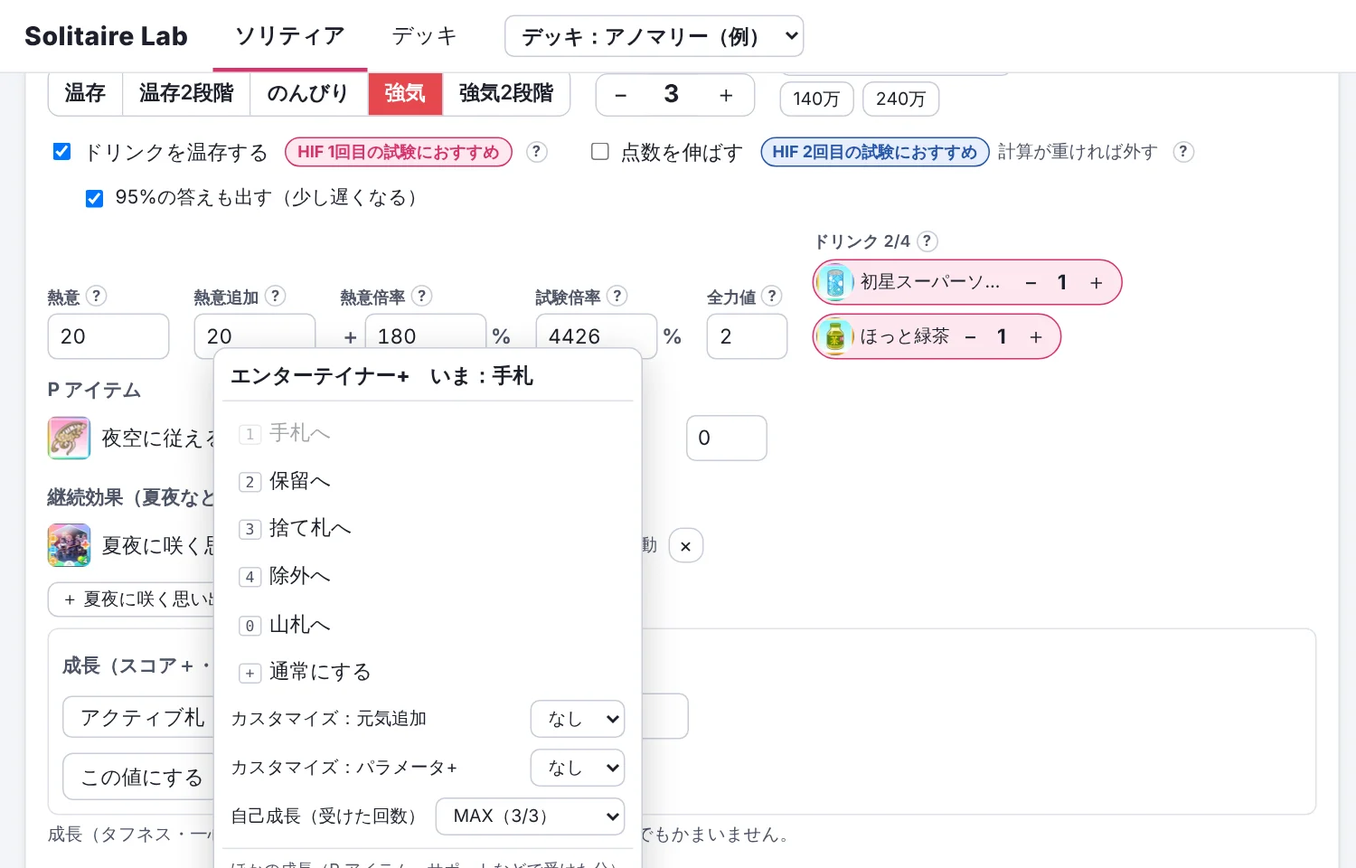
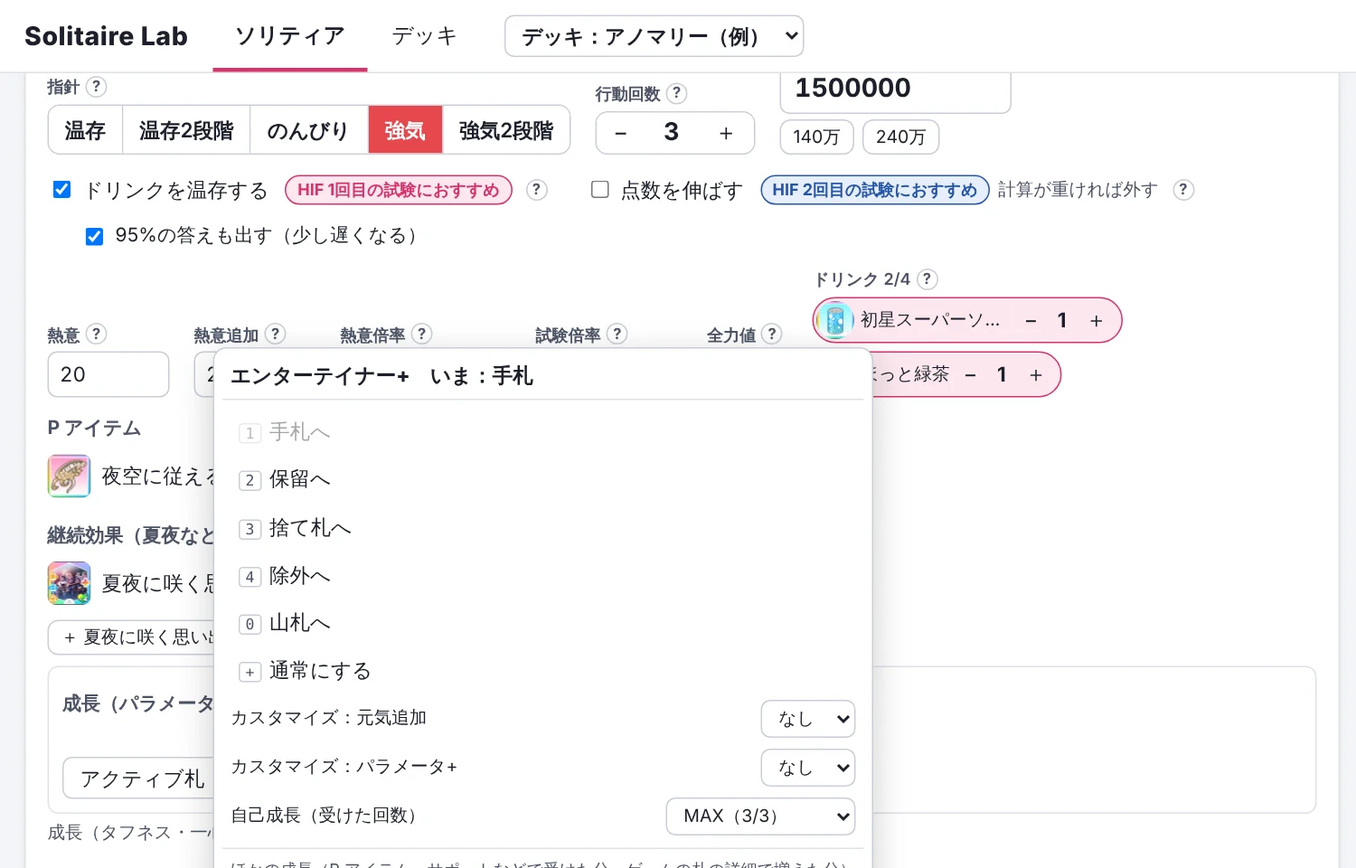
Solitaire Lab 1.17.3：ターン終わりの効果を別の行に・わたしの人生を込めて・成長の欄はすぐ反映

diff --git a/js/turn.js b/js/turn.js
@@ -1,6 +1,6 @@
 // ソリティアの画面（毎ターン使う画面）：左に局面（上部の数値の欄、手札、置き場）、右に答え（計算・次の手・プレイの案内）。
 // 札は押して置き場を選ぶ（キー 1:手札 2:保留 3:捨て札 4:除外 0:山札）か、置き場へドラッグする。山札＝デッキ全体−ほかの置き場（自動）。
-import {D, search, itemInputs, staminaTriggered, hifSharedLimit, hifSharedKind, hifOldStyle, hifOk} from './data.js';
+import {D, search, itemInputs, staminaTriggered, hifSharedLimit, hifSharedKind, hifOldStyle, hifOk, lifeOn, lifeAble} from './data.js';
 import {firedOf} from './setup.js';
 import {S, save, uid, deck, newPhase, STANCES} from './store.js';
 import {h, pic, cardTile, popover, num, sel, toast, qtip} from './ui.js';
@@ -34,6 +34,7 @@ export function renderTurn(root, rerender) {
     else if (g) m.push(h('button.mark.full', {title: '自己成長 MAX（押して変える）', onclick: e => { e.stopPropagation(); setAssume(P, en.uid, 'grown', 0); touch(); }}, '成長MAX'));
     const x = extraGrowth(P, en);
     if (x.score || x.times) m.push(h('span.mark.grow', [x.score && `+${x.score}`, x.times && `回数+${x.times}`].filter(Boolean).join(' ')));
+    if (lifeOn(en)) m.push(h('span.mark.grow', {title: 'わたしの人生を込めて（回数+2）を入れています。札を押して外せます'}, '人生 回数+2'));
     if (P.extra.includes(en)) m.push(h('span.mark.ext', '追加'));
     return m;
   };
@@ -43,6 +44,7 @@ export function renderTurn(root, rerender) {
     // HIF のつけ外し（デッキの画面と同じ。デッキの札そのものを変える。1.14.3、利用者の要望）
     const changed = () => { dk.updated = Date.now(); if (S.result) S.result.deckChanged = true; };
     if (c && (hifOk(S.calcSettings, c.baseId) || en.hif)) items.push({label: en.hif ? 'HIF を外す' : 'HIF を付ける', key: 'h', onclick: () => { en.hif = !en.hif; changed(); touch(); }});
+    if (lifeAble(en)) items.push({label: lifeOn(en) ? 'わたしの人生を込めて（回数+2）を外す' : 'わたしの人生を込めて（回数+2）を入れる', onclick: () => { en.life = !lifeOn(en); if (en.life) delete en.life; changed(); touch(); }});
     // 通常／＋、カスタマイズ（デッキの画面と同じ。デッキの札そのものを変える。1.14.3、利用者の要望）
     if (c && (c.plusId || c.upgraded)) items.push({label: c.upgraded ? '通常にする' : '＋にする', key: '+', onclick: () => { en.id = c.upgraded ? c.baseId : c.plusId; en.c11n = {}; changed(); touch(); }});
     for (const cid of c?.custs || []) {
@@ -60,7 +62,7 @@ export function renderTurn(root, rerender) {
       const x = extraGrowth(P, en);
       const inp = (label, k, v) => h('div.pop-c', {}, h('span', label), h('input', {type: 'number', min: 0, value: v, style: {width: '5em'},
         onchange: ev => { setAssume(P, en.uid, k, Math.max(0, Number(ev.target.value) || 0)); save(); }}));
-      items.push(h('div.pop-sub', 'ほかの成長（P アイテム・サポートなどで受けた分）'), inp('スコアの成長 +', 'score', x.score), inp('スコアの回数 +', 'times', x.times));
+      items.push(h('div.pop-sub', 'ほかの成長（P アイテム・サポートなどで受けた分。ゲームの札の詳細で増えた分）'), inp('パラメータ上昇 +', 'score', x.score), inp('攻撃回数 +', 'times', x.times));
     }
     if (P.extra.includes(en)) items.push({label: 'この札を消す（追加した札）', key: 'Delete', cls: 'danger', onclick: () => { P.extra = P.extra.filter(x => x !== en); delete P.zones[en.uid]; P.held = P.held.filter(x => x !== en.uid); touch(); }});
     popover(e.currentTarget, c?.name + '　いま：' + ZNAME[z].replace('（自動）', ''), items, {onclose: rerender});

diff --git a/js/steps.js b/js/steps.js
@@ -33,13 +33,18 @@ const sign = x => (x > 0 ? '+' : x < 0 ? '−' : '±') + fmt(Math.abs(x));
 const pct = x => { const v = x * 100; if (v > 0 && v < 0.01) return Number(v.toPrecision(2)) + '%'; return (Number.isInteger(v) ? String(v) : v.toFixed(2).replace(/0+$/, '').replace(/\.$/, '')) + '%'; };
 const delta = (a, b, f = v => fmt(v)) => b === a ? f(b) : `${sign(b - a)} → ${f(b)}`;
 const factorText = v => '+' + (v - 100) + '%';
+// ターン終わりの効果の点（計算の部品 5e5a733 の hits の via）：最後の手の行から分けて「ターン終わり：…」の行にする（1.17.1、利用者の要望）
+export const eotOf = e => { const hs = (e?.hits || []).filter(x => x.via === 'endOfTurn'); if (!hs.length) return null;
+  const total = hs.reduce((t, x) => t + x.v * (x.times || 1), 0);
+  const names = [...new Set([...hs].sort((x, y) => (y.phase === 'card') - (x.phase === 'card')).map(x => (x.src || '効果') + (x.phase === 'card' ? '（再演）' : '')))];   // 再演した札を先に
+  return {total, label: 'ターン終わり：' + names.join('・')}; };
 const cells = r => {
   if (r.type === 'end') return {step: '', act: r.n.cut ? 'ほかの引き（この先は省略）' : r.n.reached ? `終わり：目標に届いた` : '終わり：目標に届かない', drawn: '', p: '', path: pct(r.pathP),
     score: fmt(r.n.st?.score ?? r.n.score), heat: '', extra: '', factor: '', bonus: '', stance: '', uses: '', drinks: '', future: r.n.cut ? pct(r.n.p) : r.n.reached ? '100%' : '0%'};
   const a = r.n.st, b = r.c.st;
   return {step: String(r.step), act: r.n.act + (r.n.lost ? '（届かない：点を伸ばす手）' : ''), drawn: r.e.drawn.length ? r.e.drawn.map(x => x.name).join('・') : (r.branching ? '（ドロー札なし）' : ''),
     p: r.branching ? `${r.e.pText}（${pct(r.e.p)}）` : '', path: pct(r.pathP),
-    score: delta(a.score, b.score), heat: delta(a.heat, b.heat), extra: delta(a.extra, b.extra),
+    score: delta(a.score, b.score - (eotOf(r.e)?.total || 0)), heat: delta(a.heat, b.heat), extra: delta(a.extra, b.extra),
     factor: a.factor === b.factor ? factorText(b.factor) : `${sign(b.factor - a.factor)}% → ${factorText(b.factor)}`,
     bonus: a.bonus === b.bonus ? b.bonus + '%' : `${sign(b.bonus - a.bonus)}% → ${b.bonus}%`,
     stance: a.stance === b.stance ? (ST[b.stance] || b.stance) : `${ST[a.stance] || a.stance} → ${ST[b.stance] || b.stance}`,
@@ -116,6 +121,12 @@ export function renderSteps(root, rerender) {
   const seg = h('div.seg', {}, [['path', '手順ごと'], ['all', '全部の表']].map(([v, t]) =>
     h('button', {class: mode === v ? 'on' : '', onclick: () => { S.ui.stepMode = v; save(); rerender(); }}, t)));
   const tr = (r, opts = {}) => {
+    const eot = r.type === 'move' ? eotOf(r.e) : null;
+    if (eot) { const b = r.c.st; return [tr1(r, opts), h('tr.eot', {}, COLS.map(([k]) => k === 'act' ? h('td.act', {style: {paddingLeft: (8 + r.depth * 16) + 'px'}}, eot.label)
+      : h('td', {class: NUM_COLS.includes(k) ? 'n' : ''}, k === 'score' ? delta(b.score - eot.total, b.score) : '')))]; }
+    return tr1(r, opts);
+  };
+  const tr1 = (r, opts = {}) => {
     const c = cells(r);
     const fold = opts.fold && r.type === 'move' && r.branching;
     return h('tr', {class: [r.type, fold && 'fold', fold && collapsed.has(r.key) && 'closed', opts.fold && r.type === 'move' && !r.first && 'sib', r.type === 'end' && (r.n.cut ? 'cut' : r.n.reached ? 'ok' : 'ng')].filter(Boolean).join(' '),

diff --git a/js/phase.js b/js/phase.js
@@ -74,18 +74,18 @@ export function validate(dk, P) {
   return out;
 }
 
-// 成長をまとめて入れる（例：アクティブ札すべてにスコアの成長 +37）
-let bulk = {score: 0, times: 0, who: 'active'};
+// 成長をまとめて入れる（例：アクティブ札すべてにパラメータ上昇 +37）。入れたらすぐ、選んだ種類の札すべてに反映する（1.17.3、利用者の指摘：ボタンを押さないと入らないのは分かりにくい）
+// 値はゲームの札の詳細の「パラメータ上昇」「攻撃回数」の増えた分（札の元の点に足す）。札ごとに違う値なら空欄で出す
+let bulk = {who: 'active'};
 export function growthBulk(P, all, touch) {
   const targets = () => all.filter(en => { const c = D.cardById.get(en.id); return c && c.type !== 'trouble' && (bulk.who === 'all' || c.type === bulk.who); });
-  const apply = mode => { for (const en of targets()) { const a = P.assume[en.uid] || {};
-    // 入れた（0でない）項目だけを変える。札ごとに入れた別の項目は残す
-    const b = {...a}; for (const k of ['score', 'times']) if (bulk[k]) b[k] = mode === 'set' ? bulk[k] : (a[k] || 0) + bulk[k];
-    P.assume[en.uid] = b; } touch(); };
-  return h('div.bulk', {}, h('h4', '成長（スコア＋・回数＋をまとめて入れる）'),
-    h('div.row', {}, sel('', bulk.who, [['active', 'アクティブ札'], ['mental', 'メンタル札'], ['all', 'すべての札']], v => { bulk.who = v; }),
-      num('スコア +', bulk.score, v => { bulk.score = v || 0; }, {min: 0, width: 5}),
-      num('回数 +', bulk.times, v => { bulk.times = v || 0; }, {min: 0, width: 4})),
-    h('div.row', {}, h('button', {onclick: () => apply('set')}, 'この値にする'), h('button', {onclick: () => apply('add')}, '今の値に足す'),
-      h('button', {onclick: () => { for (const en of targets()) { const a = P.assume[en.uid]; if (a) { delete a.score; delete a.times; } } touch(); }}, '0に戻す')));
+  const common = k => { const vs = [...new Set(targets().map(en => P.assume[en.uid]?.[k] || 0))]; return vs.length === 1 ? vs[0] : null; };
+  const setAll = (k, v) => { for (const en of targets()) { const b = {...(P.assume[en.uid] || {})}; if (v) b[k] = v; else delete b[k]; P.assume[en.uid] = b; } touch(); };
+  const mixed = k => common(k) === null;
+  return h('div.bulk', {}, h('h4', '成長（パラメータ上昇・攻撃回数をまとめて入れる）'),
+    h('div.row', {}, sel('', bulk.who, [['active', 'アクティブ札'], ['mental', 'メンタル札'], ['all', 'すべての札']], v => { bulk.who = v; touch(); }),
+      num('パラメータ上昇 +', common('score') ?? '', v => setAll('score', Math.max(0, v || 0)), {min: 0, width: 5}),
+      num('攻撃回数 +', common('times') ?? '', v => setAll('times', Math.max(0, v || 0)), {min: 0, width: 4}),
+      h('button', {onclick: () => { for (const en of targets()) { const a = P.assume[en.uid]; if (a) { delete a.score; delete a.times; } } touch(); }}, '0に戻す')),
+    (mixed('score') || mixed('times')) && h('p.hint', '札ごとに違う値が入っています（空欄）。ここに入れると、選んだ種類の札すべてがその値になります。'));
 }

diff --git a/manual/index.html b/manual/index.html
@@ -51,7 +51,7 @@
 <section class="slide cover">
   <h1>Solitaire Lab 詳細マニュアル</h1>
   <div class="sub">学園アイドルマスターの「ソリティア」で、<br>どの順番で札を使えば目標点に届きやすいかを教えてくれるツールです。</div>
-  <div class="ver">版 1.17.0 ・ ← → キー、または画面の左右を押してページをめくります</div>
+  <div class="ver">版 1.17.3 ・ ← → キー、または画面の左右を押してページをめくります</div>
 </section>
 
 <section class="slide">
@@ -136,6 +136,7 @@
       <li><b>通常／＋</b>：強化前と強化後を切り替えます。</li>
       <li><b>カスタマイズ</b>：段階を選びます。</li>
       <li><b>HIF</b>：HIF が付けられる札だけに表示されます。同じ名前の札に HIF を付けても、効果が出るのはレッスン中に最初に使った1枚だけです（再動の札は合わせて2回まで）。同じ名前の HIF の札が2枚以上あるときは、ソリティアの前に使ったかを P アイテムの下の欄で入れます。</li>
+      <li><b>わたしの人生を込めて</b>：手を伸ばした先にだけに表示されます。最初から「回数+2」が入っています（札に「人生 回数+2」の印）。まだ使っていないときは外してください。</li>
       <li><b>1枚ふやす／デッキから外す</b></li>
     </ul>
     <div class="tip">ヒント：札の上の色の帯は、その札で変わる指針です。<span class="chip s1">強気</span> <span class="chip s2">温存</span> <span class="chip s3">のんびり</span></div>
@@ -164,7 +165,7 @@
       <li>山札の枚数は自動で計算されます。置き場の場所は固定です（上に手札と保留、その下に山札、捨て札と除外）。空の置き場にも、札をドラッグして入れられます。</li>
     </ol>
     <div class="tip">ヒント：キーボードでも動かせます。<kbd>1</kbd> 手札 <kbd>2</kbd> 保留 <kbd>3</kbd> 捨て札 <kbd>4</kbd> 除外 <kbd>0</kbd> 山札</div>
-    <div class="tip">成長（タフネス・一心不乱などで上がった分）は、入力の欄の「<b>成長</b>」で入れます。点が大きい局面では誤差なので、空白でもかまいません。デッキにない札（眠気など）は「＋ デッキにない札を足す」から追加します。</div>
+    <div class="tip">成長は「<b>成長</b>」の欄に、札の詳細の「パラメータ上昇」「攻撃回数」の増えた分を入れます。点が大きい局面では誤差なので、空白でもかまいません。デッキにない札（眠気など）は「＋ デッキにない札を足す」から追加します。</div>
   </div><div class="pic"><img src="img/05-card-menu.webp" alt="札のメニュー"></div></div>
 </section>
 

diff --git a/js/answer.js b/js/answer.js
@@ -1,5 +1,6 @@
 // ソリティアの画面の右側：答えの欄。計算の前は「確かめ」と「計算する」、計算中は進み具合、計算の後は次の手とプレイの案内。
 // プレイの案内は同じ欄の中で進む（「使った」→「何を引いた？」→ 次の手）。比較表・自然さ・答えの確かさは「詳しく」にたたむ。
+import {eotOf} from './steps.js';
 import {D} from './data.js';
 import {S, save, deck, STANCES} from './store.js';
 import {h, pic, fmt, toast, qtip} from './ui.js';
@@ -78,9 +79,16 @@ function gainOf(tree, node) {
   if (same(b => b.heat) && kids[0].heat !== a.heat) parts.push(`熱意 ${fmt(a.heat)} → ${fmt(kids[0].heat)}`);
   if (same(b => b.extra) && kids[0].extra !== a.extra) parts.push(`熱意追加 ${fmt(a.extra)} → ${fmt(kids[0].extra)}`);
   // 1発の値×回数（計算の部品の explain）。どの引きでも同じなら「23,370 × 5回 ＝ +116,850」
-  const hs = node.edges.map(e => e.hits ? e.hits.map(x => x.times > 1 ? `${fmt(x.v)} × ${x.times}回` : fmt(x.v)).join(' ＋ ') : null);
+  // 内訳に出どころ（計算の部品 5e5a733 の src）。使った札そのものの攻撃は名前を省く。ターン終わりの効果（via endOfTurn）は別に出す（1.17.1）
+  const me = node.act.replace(/（.*$/, '');
+  const hitText = x => (x.times > 1 ? `${fmt(x.v)} × ${x.times}回` : fmt(x.v)) + (x.src && x.src !== me ? `（${x.src}${x.phase === 'card' && x.via ? '・再演' : ''}）` : '');
+  const eots = node.edges.map(e => eotOf(e));
+  const eot = eots[0] && eots.every(x => x && x.total === eots[0].total && x.label === eots[0].label) ? eots[0] : null;
+  if (eot) parts.push(`${eot.label} +${fmt(eot.total)}`);
+  const hs = node.edges.map(e => e.hits ? e.hits.filter(x => !(eot && x.via === 'endOfTurn')).map(hitText).join(' ＋ ') : null);
+  const own = lo - (eot?.total || 0);
   const plain = node.edges[0].hits?.length === 1 && node.edges[0].hits[0].times === 1;   // 1発だけなら「+48」のまま
-  if (!plain && hs[0] && hs.every(x => x === hs[0]) && lo === hi && lo > 0) return {text: `使うとスコア ${hs[0]} ＝ +${fmt(lo)}`, sub: `（このターンの合計 ${fmt(tlo)}${parts.length ? '・' + parts.join('・') : ''}）`, short: `${hs[0]} ＝ +${fmt(lo)}点`};
+  if (!plain && hs[0] && hs.every(x => x === hs[0]) && lo === hi && lo > 0) return {text: `使うとスコア ${hs[0]} ＝ +${fmt(own)}`, sub: `（このターンの合計 ${fmt(tlo)}${parts.length ? '・' + parts.join('・') : ''}）`, short: `${hs[0]} ＝ +${fmt(lo)}点`};
   return {text: `使うとスコア ${sc}`, sub: `（このターンの合計 ${tlo === thi ? fmt(tlo) : fmt(tlo) + '〜' + fmt(thi)}${parts.length ? '・' + parts.join('・') : ''}）`, short: `${sc}点`};
 }
 

diff --git a/js/deck.js b/js/deck.js
@@ -1,5 +1,5 @@
 // 1. デッキ登録：札・ドリンク・P アイテム・P アイドルを名前（正式名・略称）で探して足す。保存して何度も使う
-import {D, search, hifOk, unsupported, PLAN_NAME} from './data.js';
+import {D, search, hifOk, unsupported, PLAN_NAME, lifeOn, lifeAble} from './data.js';
 import {S, save, uid, deck, newDeck} from './store.js';
 import {h, pic, cardTile, popover, toast} from './ui.js';
 import {variantKey} from './nextturn.js';
@@ -34,6 +34,7 @@ export function renderDeck(root, rerender) {
     const c = D.cardById.get(entry.id);
     const items = [];
     if (c.plusId || c.upgraded) items.push({label: c.upgraded ? '通常にする' : '＋にする', key: '+', onclick: () => { entry.id = c.upgraded ? c.baseId : c.plusId; entry.c11n = {}; if (S.result && S.result.deckId === dk.id) S.result.deckChanged = true; touch(); rerender(); }});
+    if (lifeAble(entry)) items.push({label: lifeOn(entry) ? 'わたしの人生を込めて（回数+2）を外す' : 'わたしの人生を込めて（回数+2）を入れる', onclick: () => { entry.life = !lifeOn(entry); if (entry.life) delete entry.life; if (S.result && S.result.deckId === dk.id) S.result.deckChanged = true; touch(); rerender(); }});
     if (hifOk(S.calcSettings, c.baseId) || entry.hif) items.push({label: entry.hif ? 'HIF を外す' : 'HIF を付ける', key: 'h', onclick: () => { entry.hif = !entry.hif; if (S.result && S.result.deckId === dk.id) S.result.deckChanged = true; touch(); rerender(); }});
     for (const cid of c.custs) {
       const cu = D.custs.get(cid); if (!cu) continue;
@@ -131,5 +132,5 @@ function unsup(kind, x) {
   const p = kind === 'cards' ? (u.cardIds.get(x.plusId ?? x.id) || u.cardIds.get(x.id)) : kind === 'drinks' ? u.drinks.find(d => d.id === x.id)?.problems : kind === 'items' ? u.items.find(d => d.id === x.id)?.problems : null;
   return p?.[0] || null;
 }
-const groups = cards => { const m = new Map(); for (const en of cards) { const k = variantKey(en); if (!m.has(k)) m.set(k, []); m.get(k).push(en); } return [...m.values()]; };
+const groups = cards => { const m = new Map(); for (const en of cards) { const k = variantKey(en) + (en.life === false ? '#nolife' : ''); if (!m.has(k)) m.set(k, []); m.get(k).push(en); } return [...m.values()]; };
 const chip = (kind, id, name = '?', onremove) => h('span.chip', {}, pic(kind, id, name, 28), name, h('button.x', {title: '外す', onclick: onremove}, '×'));

diff --git a/js/nextturn.js b/js/nextturn.js
@@ -1,7 +1,7 @@
 // 次のターンの局面：プレイでたどった最後の局面（worker.js の turnEndState）から、局面の入力（画面の形）を作る。
 // ゲームのターン終わりの動きに合わせる：手札は捨て札へ。保留・除外・山札・成長・ドリンク・指針・回数・P アイテムと継続効果のカウンタは引き継ぐ。
 // 次のターンに引いた札は、利用者が山札から手札へ動かす。ターンをまたいで変わる数（熱意・倍率・行動回数・目標点など）は、前の入力を残して確かめてもらう。
-import {D, startGrowthOf, itemInputs, hifSharedLimit} from './data.js';
+import {D, startGrowthOf, itemInputs, hifSharedLimit, lifeOn, LIFE_TIMES} from './data.js';
 const settingsOf = () => S.calcSettings;
 import {S, uid, newPhase, STANCES} from './store.js';
 
@@ -111,7 +111,7 @@ function growthOf(e, c, st, P) {
   const a = {};
   const sg = startGrowthOf(e);   // カスタマイズの分（エンジンが足すので、入力には入れない）
   const raw = c;   // 自己成長の記録を探すときは、エンジンの値のまま
-  c = {...c, g: {score: c.g.score - (sg.score || 0), scoreTimes: c.g.scoreTimes - (sg.scoreTimes || 0)}};
+  c = {...c, g: {score: c.g.score - (sg.score || 0), scoreTimes: c.g.scoreTimes - (sg.scoreTimes || 0) - (lifeOn(e) ? LIFE_TIMES : 0)}};   // わたしの人生を込めての回数+2 は札の印（1.17.2）
   if (card?.growth?.limit) {   // 回数の上限がない自己成長（羽ばたけ！など）は、ほかの成長（スコア＋・回数＋）としてそのまま引き継ぐ
     const lim = card.growth.limit;
     const rec = st.cardEffs.find(r => r.src && r.src.key === raw.key && r.src.g.score === raw.g.score && r.src.g.scoreTimes === raw.g.scoreTimes && r.l.length);

diff --git a/js/restore.js b/js/restore.js
@@ -1,7 +1,7 @@
 // 報告から局面を戻す：「報告用の情報をコピー」の文（【Solitaire Lab 報告用】{…}）を貼ると、その局面を新しいデッキと局面として作る。
 // 報告の setup（計算の部品の形、setup.js の buildSetup の出力）を、画面の形（デッキ・局面）に戻す。戻したあと buildSetup で作り直し、
 // 報告の setup と同じになるかを確かめる（違えばその旨を出す）。設定（予算など）は変えない（1.13.0、利用者の指示）
-import {D} from './data.js';
+import {D, LIFE_TIMES} from './data.js';
 import {S, save, uid, newDeck, newPhase} from './store.js';
 import {buildSetup} from './setup.js';
 import {itemsFor} from './run.js';
@@ -35,6 +35,8 @@ export function phaseFromReport(o) {
       const lim = c.growth.limit || 1, n = Math.max(0, lim - x.limits[0]);
       a.grown = n; gs -= n * (c.growth.score || 0); gt -= n * (c.growth.times || 0);
     }
+    // 手を伸ばした先に：わたしの人生を込めての回数+2 は札の印（既定で入る）なので、回数+から引く。2 未満なら人生なしとする（1.17.2）
+    if (c?.baseId === 849) { if (gt >= LIFE_TIMES) gt -= LIFE_TIMES; else en.life = false; }
     if (gs) a.score = gs; if (gt) a.times = gt;
     if (Object.keys(a).length) P.assume[en.uid] = a;
     return en;

diff --git a/js/data.js b/js/data.js
@@ -139,6 +139,11 @@ export function hifSharedKind(settings, baseId) {
 }
 // 利用者の設定（計算の設定）が、既定では名前ごとに共有する HIF の効果を、札ごとの効果（古い形）で持っているか（その設定が優先されるので、重複なしにならない）
 export const hifOldStyle = (settings, baseId) => !!settings?.abilities?.HIF && !hifSharedLimit(settings, baseId) && !!hifSharedLimit(null, baseId) && hifOk(settings, baseId);
+// 手を伸ばした先に（849・850）：ふつうはソリティアより前に「わたしの人生を込めて」（851・852）を使って回数+2 になっているので、既定で回数+2 を入れる。
+// 札のメニューで外せる（デッキの札の life:false）。1.17.2、利用者の指示
+export const LIFE_TIMES = 2;
+export const lifeOn = en => D.cardById.get(en?.id)?.baseId === 849 && en.life !== false;
+export const lifeAble = en => D.cardById.get(en?.id)?.baseId === 849;
 export const hifOk = (settings, baseId) => !!(settings || calcDefaults()).abilities?.HIF?.some(g => g.cards.includes(baseId));
 
 // 設定を当てたデータで、対応していない効果を持つ札など（エンジンの unsupportedList）。設定にエラーがあれば設定なしのデータで

diff --git a/js/setup.js b/js/setup.js
@@ -1,3 +1,4 @@
+import {lifeOn, LIFE_TIMES} from './data.js';
 // 局面の入力（画面の形）から、計算エンジン Tecnai の局面（setup）と目標点を作る。画面にもエンジンにも依らない、純粋な変換。
 // setup の形はエンジンの tecnai.mjs（createEngine）と AEGIS_SPEC.md 3章：
 //   {hand, deck, discard, removed, held（古い順）, drinks, drinkCap, pItems, registered, cardUses, stance, prevStance, enthusiasm,
@@ -22,6 +23,7 @@ export function buildSetup({deck, phase, cards, items}) {
       if (n >= lim) x.grown = 'full';
       else { g.score += n * (c.growth.score || 0); g.scoreTimes += n * (c.growth.times || 0); x.limits = [lim - n]; }
     }
+    if (lifeOn(en)) g.scoreTimes += LIFE_TIMES;   // わたしの人生を込めて（既定で回数+2。1.17.2）
     if (g.score || g.scoreTimes) x.g = g;
     return Object.keys(x).length === 1 ? en.id : x;
   };

diff --git a/style.css b/style.css
@@ -350,3 +350,7 @@ ol.howto li:first-child { color: var(--ink); font-weight: 700; }
 .cmnote { color: var(--faint); font-size: 12px; margin-top: 18px; }
 .lostline { background: var(--errbg); border-radius: 8px; padding: 6px 10px; font-size: 13px; margin: 6px 0; }
 .lostline small.unsup { margin-left: 6px; }
+/* 成長の欄：名前を入力の箱のすぐ上に置き、欄どうしの間を空ける（1.17.3、利用者の指摘：名前と箱が離れて、隣の欄の名前に見えた） */
+.bulk .row { align-items: flex-end; gap: 18px; }
+.bulk label.f { display: inline-flex; flex-direction: column; align-items: flex-start; gap: 2px; margin: 0; }
+.bulk label.f .fl { font-size: 12px; color: var(--sub); }

diff --git a/manual/summary.html b/manual/summary.html
@@ -52,7 +52,7 @@
 <section class="slide cover">
   <h1>Solitaire Lab</h1>
   <div class="sub">学園アイドルマスターの「ソリティア」で、<br>どの順番で札を使えば目標点に届きやすいかを教えてくれるツールです。</div>
-  <div class="ver">概要 ・ 版 1.17.0 ・ くわしい使い方は「詳細マニュアル」をご覧ください</div>
+  <div class="ver">概要 ・ 版 1.17.3 ・ くわしい使い方は「詳細マニュアル」をご覧ください</div>
 </section>
 
 <section class="slide">
